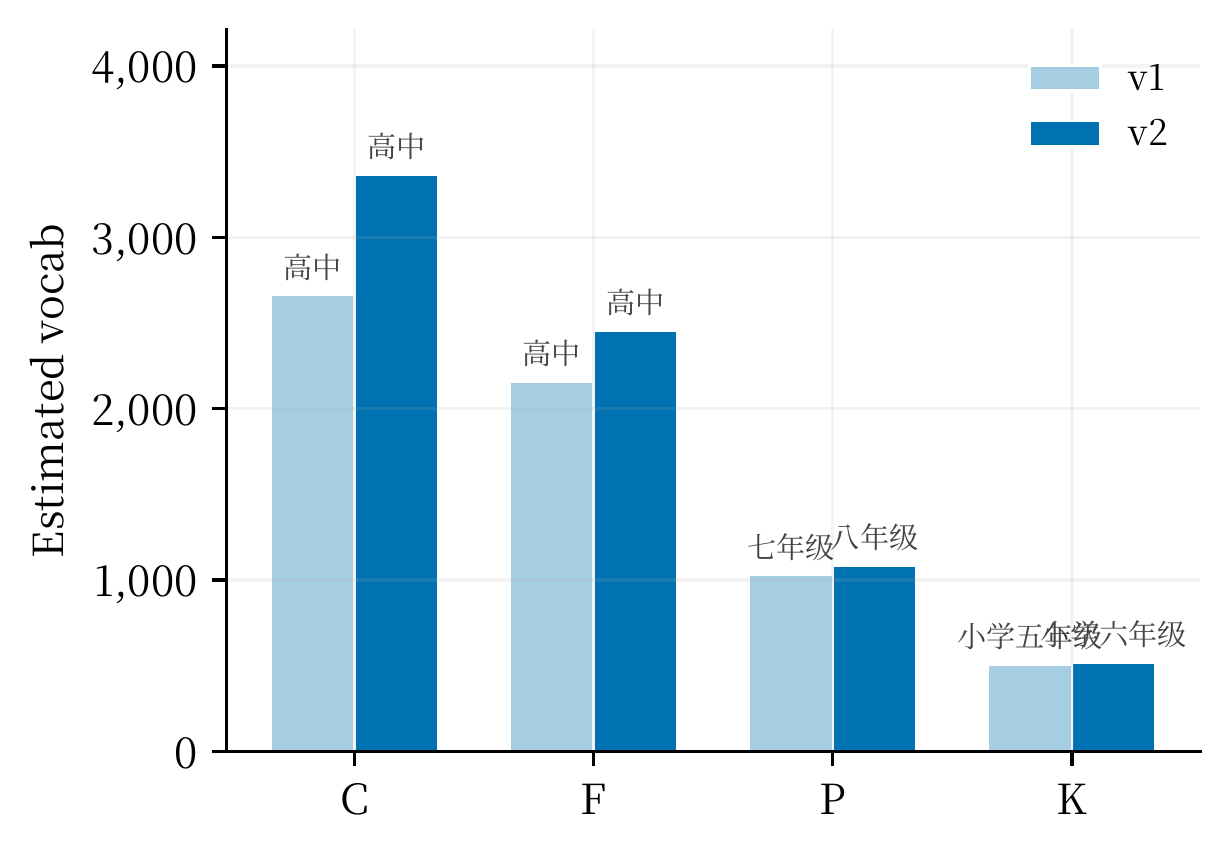
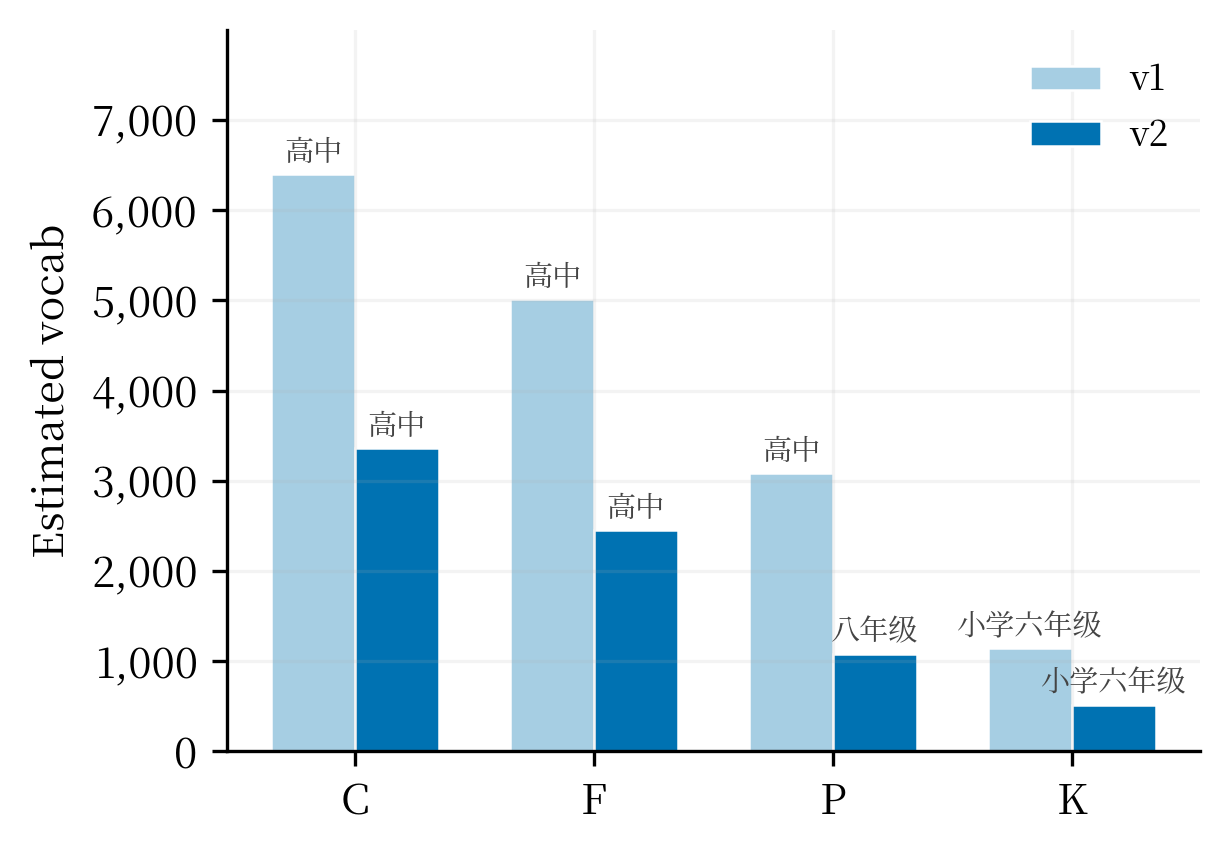
feat: 文章估算改为0.8p75+0.2p95加权公式
- article_estimator.py: 新增difficulty_weighted/p75/p95字段
- 文档更新C/F/P/K: C=6059, F=5008, P=2668, K=1138
- 图表已重新生成(cfpk_comparison.pdf/png)

diff --git a/vocab_estimator/article_estimator.py b/vocab_estimator/article_estimator.py
@@ -835,8 +835,9 @@ def estimate_article(
 ) -> dict[str, Any]:
     """估算阅读一篇文章所需的词汇量。
 
-    估算值为文章 difficulty 中位数在阶段词库中的累计位置：
-    ``P(vocab_difficulty <= article_median) * N``。
+    估算值为文章 difficulty 尾部加权难度在阶段词库中的累计位置：
+    ``weighted_diff = 0.8 * p75 + 0.2 * p95``，
+    ``estimated_vocab = count(vocab_difficulty <= weighted_diff)``。
     """
 
     if not isinstance(article, str) or not article.strip():
@@ -861,10 +862,12 @@ def estimate_article(
     difficulties = sorted(item["difficulty"] for _, item in matched)
     difficulty_median = _quantile(difficulties, 0.50)
     p25 = _quantile(difficulties, 0.25)
-    p75 = _quantile(difficulties, 0.75)
+    p75 = difficulties[int(len(difficulties) * 0.75)]
+    p95 = difficulties[int(len(difficulties) * 0.95)]
+    difficulty_weighted = 0.8 * p75 + 0.2 * p95
 
     sorted_vocab_difficulties: list[float] = vocab["sorted_difficulties"]
-    cumulative_count = bisect.bisect_right(sorted_vocab_difficulties, difficulty_median)
+    cumulative_count = bisect.bisect_right(sorted_vocab_difficulties, difficulty_weighted)
     total_words = int(vocab["total_words"])
     estimated_vocab = max(1, min(total_words, int(round(cumulative_count))))
 
@@ -881,7 +884,10 @@ def estimate_article(
     coverage_unique = len(matched_unique) / len(unique_tokens)
 
     return {
-        "difficulty_median": round(difficulty_median, 4),
+        "difficulty_median": round(difficulty_weighted, 4),
+        "difficulty_weighted": round(difficulty_weighted, 4),
+        "difficulty_p75": round(p75, 4),
+        "difficulty_p95": round(p95, 4),
         "estimated_vocab": estimated_vocab,
         "level": _map_level(estimated_vocab, vocab["stage_levels"]),
         "coverage": {
@@ -890,6 +896,7 @@ def estimate_article(
                 "p25": round(p25, 4),
                 "median": round(difficulty_median, 4),
                 "p75": round(p75, 4),
+                "p95": round(p95, 4),
                 "min": round(difficulties[0], 4),
                 "max": round(difficulties[-1], 4),
                 "mean": round(mean(difficulties), 4),

diff --git a/scripts/plot_figures.py b/scripts/plot_figures.py
@@ -109,7 +109,9 @@ def parse_cfpk_from_report() -> dict[str, dict[str, dict[str, object]]]:
     current: str | None = None
 
     for line in report.splitlines():
-        if "v1 原始词库结果如下" in line:
+        if "v1 原始词库结果如下" in line or (
+            "v1 清洗词库" in line and "结果如下" in line
+        ):
             current = "v1"
             continue
         if "v2 统一标定词库结果如下" in line:
@@ -405,6 +407,7 @@ def plot_cfpk_comparison() -> None:
     ax.legend(loc="best")
 
     fig.tight_layout()
+    fig.savefig(FIGURE_DIR / "cfpk_comparison.png", dpi=300)
     save_pdf(fig, "cfpk_comparison.pdf")
 
 